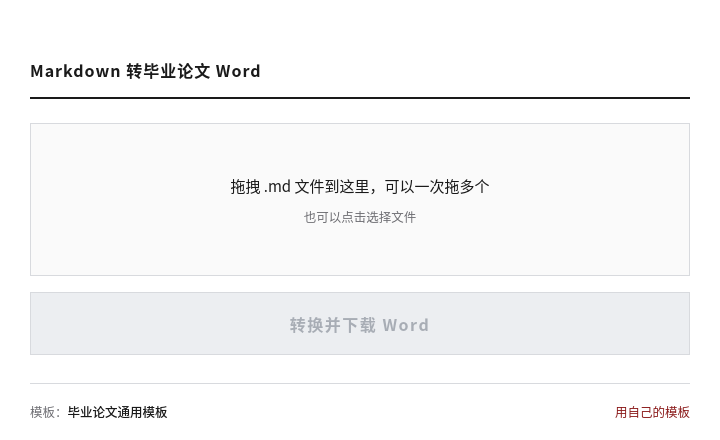
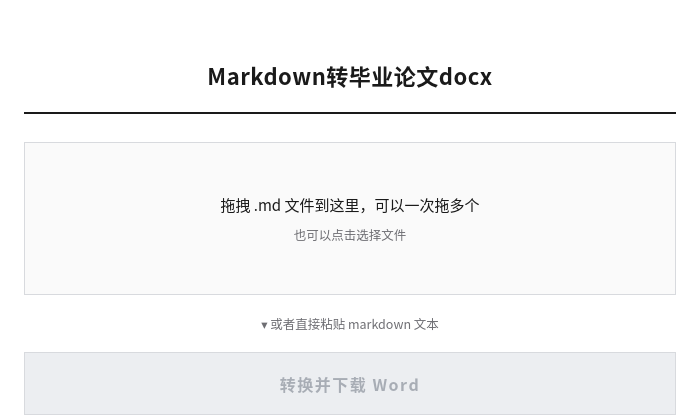
支持直接粘贴 markdown 文本；标题居中放大
粘贴功能（默认折叠，不占默认视图）：
- 折叠入口 + 文本框，点「加入转换队列」后收起
- 实现上是**合成一个 File 对象走现有队列**，不新增任何转换逻辑 ——
  转换、勾选、下载、错误提示全部复用
- 文件名从正文第一个 `#` 标题取（去掉 markdown 记号和非法字符，
  超 40 字截断），取不到就退回「粘贴的内容」
- 界面明确提示「粘贴的内容不含图片」

标题按要求改为「Markdown转毕业论文docx」，居中、22px（原 16px）。
粘贴入口用灰色而非红色 —— 它是次要入口，不该和主按钮抢视线。

titleFromMd 的正则用浏览器实测过：加粗/行内代码记号、非法字符、
前后空格、无标题回退都正确。

diff --git a/app/static/index.html b/app/static/index.html
@@ -3,7 +3,7 @@
 <head>
 <meta charset="utf-8">
 <meta name="viewport" content="width=device-width, initial-scale=1">
-<title>Markdown 转毕业论文 Word</title>
+<title>Markdown转毕业论文docx</title>
 <style>
   :root {
     --bg:#ffffff; --ink:#1a1a1a; --muted:#6e6e73;
@@ -21,10 +21,9 @@
   }
   .wrap { max-width:660px; margin:0 auto; }
 
-  /* 标题只作标识，不跟内容抢视线 */
   h1 {
-    font-size:16px; font-weight:600; letter-spacing:1px;
-    margin:0 0 24px; padding-bottom:12px; border-bottom:2px solid var(--ink);
+    font-size:22px; font-weight:600; letter-spacing:.5px; text-align:center;
+    margin:0 0 28px; padding-bottom:16px; border-bottom:2px solid var(--ink);
   }
 
   .card { padding:0; }
@@ -44,7 +43,27 @@
   #drop.compact .small { display:none; }
   #drop.compact:hover { color:var(--accent); }
 
-  #list { margin-top:0; border:1px solid var(--line); border-top:none; }
+  /* 粘贴入口默认收起 —— 不占默认视图，需要的人点开 */
+  #pasteBox { margin-top:14px; text-align:center; }
+  /* 次要入口：用灰色，别和主按钮抢视线（悬停时才变红） */
+  #pasteToggle { font-size:12.5px; color:var(--muted); }
+  #pasteToggle:hover { color:var(--accent); }
+  #pastePanel { margin-top:12px; text-align:left; }
+  #pasteText {
+    width:100%; height:220px; resize:vertical; padding:10px 12px;
+    font:12.5px/1.7 ui-monospace,Menlo,Consolas,monospace;
+    color:var(--ink); background:#fff; border:1px solid var(--line);
+  }
+  #pasteText:focus { outline:none; border-color:var(--accent); }
+  .paste-foot { display:flex; align-items:center; gap:12px; margin-top:10px; flex-wrap:wrap; }
+  #pasteAdd {
+    padding:9px 18px; font:inherit; font-size:14px; color:#fff;
+    background:var(--accent); border:1px solid var(--accent); cursor:pointer;
+  }
+  #pasteAdd:hover { background:var(--accent-h); border-color:var(--accent-h); }
+  .paste-foot .hint { font-size:12px; color:var(--muted); flex:1; min-width:180px; }
+
+  #list { margin-top:14px; border:1px solid var(--line); }
   #list:empty { display:none; border:none; }
   .item {
     display:flex; align-items:center; gap:12px;
@@ -111,7 +130,7 @@
 <body>
 <div class="wrap">
 
-  <h1>Markdown 转毕业论文 Word</h1>
+  <h1>Markdown转毕业论文docx</h1>
 
   <div class="card">
 
@@ -120,6 +139,17 @@
       <div class="small">也可以点击选择文件</div>
     </div>
     <input type="file" id="mdFile" accept=".md,.markdown,.txt" multiple hidden>
+
+    <div id="pasteBox">
+      <a class="link" id="pasteToggle">▾ 或者直接粘贴 markdown 文本</a>
+      <div id="pastePanel" hidden>
+        <textarea id="pasteText" placeholder="把 markdown 粘在这里…"></textarea>
+        <div class="paste-foot">
+          <button id="pasteAdd" type="button">加入转换队列</button>
+          <span class="hint">粘贴的内容不含图片。需要图片的话，请把 .md 和图片一起打包上传。</span>
+        </div>
+      </div>
+    </div>
 
     <div id="list"></div>
 
@@ -236,6 +266,45 @@ window.addEventListener('drop', e => {
   drop.classList.remove('over');
   addFiles(null, e.dataTransfer);
 });
+
+/* ---------- 粘贴文本 ----------
+   做法是**合成一个 File 对象，走现有队列** —— 后面的转换、勾选、下载、
+   错误提示全都复用，不新增任何转换逻辑。
+   文件名从正文第一个 `#` 标题取（粘贴的论文第一行通常就是标题），
+   取不到就退回「粘贴的内容」。 */
+$('pasteToggle').onclick = () => {
+  const panel = $('pastePanel');
+  panel.hidden = !panel.hidden;
+  $('pasteToggle').textContent = (panel.hidden ? '▾ ' : '▴ ') + '或者直接粘贴 markdown 文本';
+  if (!panel.hidden) $('pasteText').focus();
+};
+
+// 从正文里找第一个一级标题当文件名。去掉 markdown 记号和不适合做文件名的字符。
+function titleFromMd(text) {
+  const m = text.match(/^\s*#\s+(.+?)\s*$/m);
+  if (!m) return '';
+  let n = m[1].replace(/[*_`#\[\]]/g, '').replace(/[\\/:*?"<>|]/g, '').trim();
+  return n.length > 40 ? n.slice(0, 40) : n;
+}
+
+$('pasteAdd').onclick = () => {
+  const text = $('pasteText').value;
+  if (!text.trim()) {
+    say('<div class="line err">文本框是空的，先粘贴一点内容。</div>');
+    return;
+  }
+  if (text.length > 5 * 1024 * 1024) {
+    say('<div class="line err">内容超过 5 MB，请改成分文件上传。</div>');
+    return;
+  }
+  const base = titleFromMd(text) || '粘贴的内容';
+  addFiles([new File([text], base + '.md', { type: 'text/markdown' })]);
+
+  // 加进队列后收起面板并清空 —— 默认视图恢复干净，要看结果看队列就行
+  $('pasteText').value = '';
+  $('pastePanel').hidden = true;
+  $('pasteToggle').textContent = '▾ 或者直接粘贴 markdown 文本';
+};
 
 /* ---------- 相对时间 ---------- */
 function ago(ts) {
